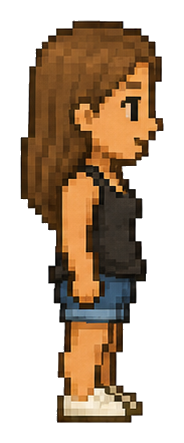
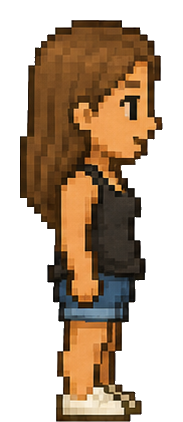
Ground family sprites, defringe kid halos, size everyone up
Sprites now crop feet-flush (no bottom margin floating them above the
tile), light-background sheets get a defringe pass that removes the
white anti-aliasing halo, Chris's back/side get a bit more width, and
render sizes bump to adults 126 / Claire 116 / Emerson 110 (Opal stays
6lbs small).

Changed region(s): [[0.1093, 0.0308, 0.9016, 1.0], [0.2732, 0.3081, 0.3005, 0.3389]]

diff --git a/lib/story/rooms/home/family_house.ts b/lib/story/rooms/home/family_house.ts
@@ -99,12 +99,12 @@ export const FAMILY_MEMBERS: FamilyMember[] = [
     sprite: "/images/family/chris-front.png",
     spriteBack: "/images/family/chris-back.png",
     spriteSide: "/images/family/chris-side.png",
-    heroSpriteScale: 114,
+    heroSpriteScale: 126,
     home: [13, 2],
     facing: Direction.DOWN,
     canMove: false,
     // metadata.scale is the NPC-layer size (heroSpriteScale / 85, the NPC standard)
-    metadata: { scale: 1.34 },
+    metadata: { scale: 1.48 },
   },
   // Annie — kitchen, mid-project as always. Real assets.
   {
@@ -114,14 +114,14 @@ export const FAMILY_MEMBERS: FamilyMember[] = [
     sprite: "/images/family/annie-front.png",
     spriteBack: "/images/family/annie-back.png",
     spriteSide: "/images/family/annie-side.png",
-    heroSpriteScale: 114,
+    heroSpriteScale: 126,
     home: [6, 3],
     facing: Direction.DOWN,
     canMove: true,
     metadata: {
       behavior: "wander",
       wanderBounds: { minY: 4, maxY: 7, minX: 3, maxX: 5 },
-      scale: 1.34,
+      scale: 1.48,
     },
   },
   // Emerson — his room, never standing still. Real assets; 12 and a little
@@ -133,14 +133,14 @@ export const FAMILY_MEMBERS: FamilyMember[] = [
     sprite: "/images/family/emerson-front.png",
     spriteBack: "/images/family/emerson-back.png",
     spriteSide: "/images/family/emerson-side.png",
-    heroSpriteScale: 95,
+    heroSpriteScale: 110,
     home: [13, 8],
     facing: Direction.LEFT,
     canMove: true,
     metadata: {
       behavior: "wander",
       wanderBounds: { minY: 13, maxY: 15, minX: 7, maxX: 8 },
-      scale: 1.12,
+      scale: 1.29,
     },
   },
   // Claire — her room, calm and still. Real assets; 14, ~75% of the adults.
@@ -151,11 +151,11 @@ export const FAMILY_MEMBERS: FamilyMember[] = [
     sprite: "/images/family/claire-front.png",
     spriteBack: "/images/family/claire-back.png",
     spriteSide: "/images/family/claire-side.png",
-    heroSpriteScale: 101,
+    heroSpriteScale: 116,
     home: [10, 8],
     facing: Direction.DOWN,
     canMove: false,
-    metadata: { scale: 1.19 },
+    metadata: { scale: 1.36 },
   },
   // Opal — starts in the living room, roams the house
   {

diff --git a/__tests__/lib/hearth_home_mode.test.ts b/__tests__/lib/hearth_home_mode.test.ts
@@ -87,8 +87,8 @@ describe("character toggle", () => {
   });
 
   it("renders the kids at kid size", () => {
-    expect(buildHearthHomeState("emerson").heroSpriteScale).toBe(95);
-    expect(buildHearthHomeState("claire").heroSpriteScale).toBe(101);
+    expect(buildHearthHomeState("emerson").heroSpriteScale).toBe(110);
+    expect(buildHearthHomeState("claire").heroSpriteScale).toBe(116);
   });
 
   it("supports dog mode at dog size", () => {
@@ -96,7 +96,7 @@ describe("character toggle", () => {
     expect(state.heroSprite).toBe("/images/dog-golden/dog-front-1.png");
     expect(state.heroSpriteScale).toBe(36);
     // Humans with real art render larger than the NPC standard.
-    expect(buildHearthHomeState("chris").heroSpriteScale).toBe(114);
+    expect(buildHearthHomeState("chris").heroSpriteScale).toBe(126);
     const ids = (state.npcs ?? []).map((npc) => npc.id).sort();
     expect(ids).toEqual(["npc-annie", "npc-chris", "npc-claire", "npc-emerson"]);
   });
